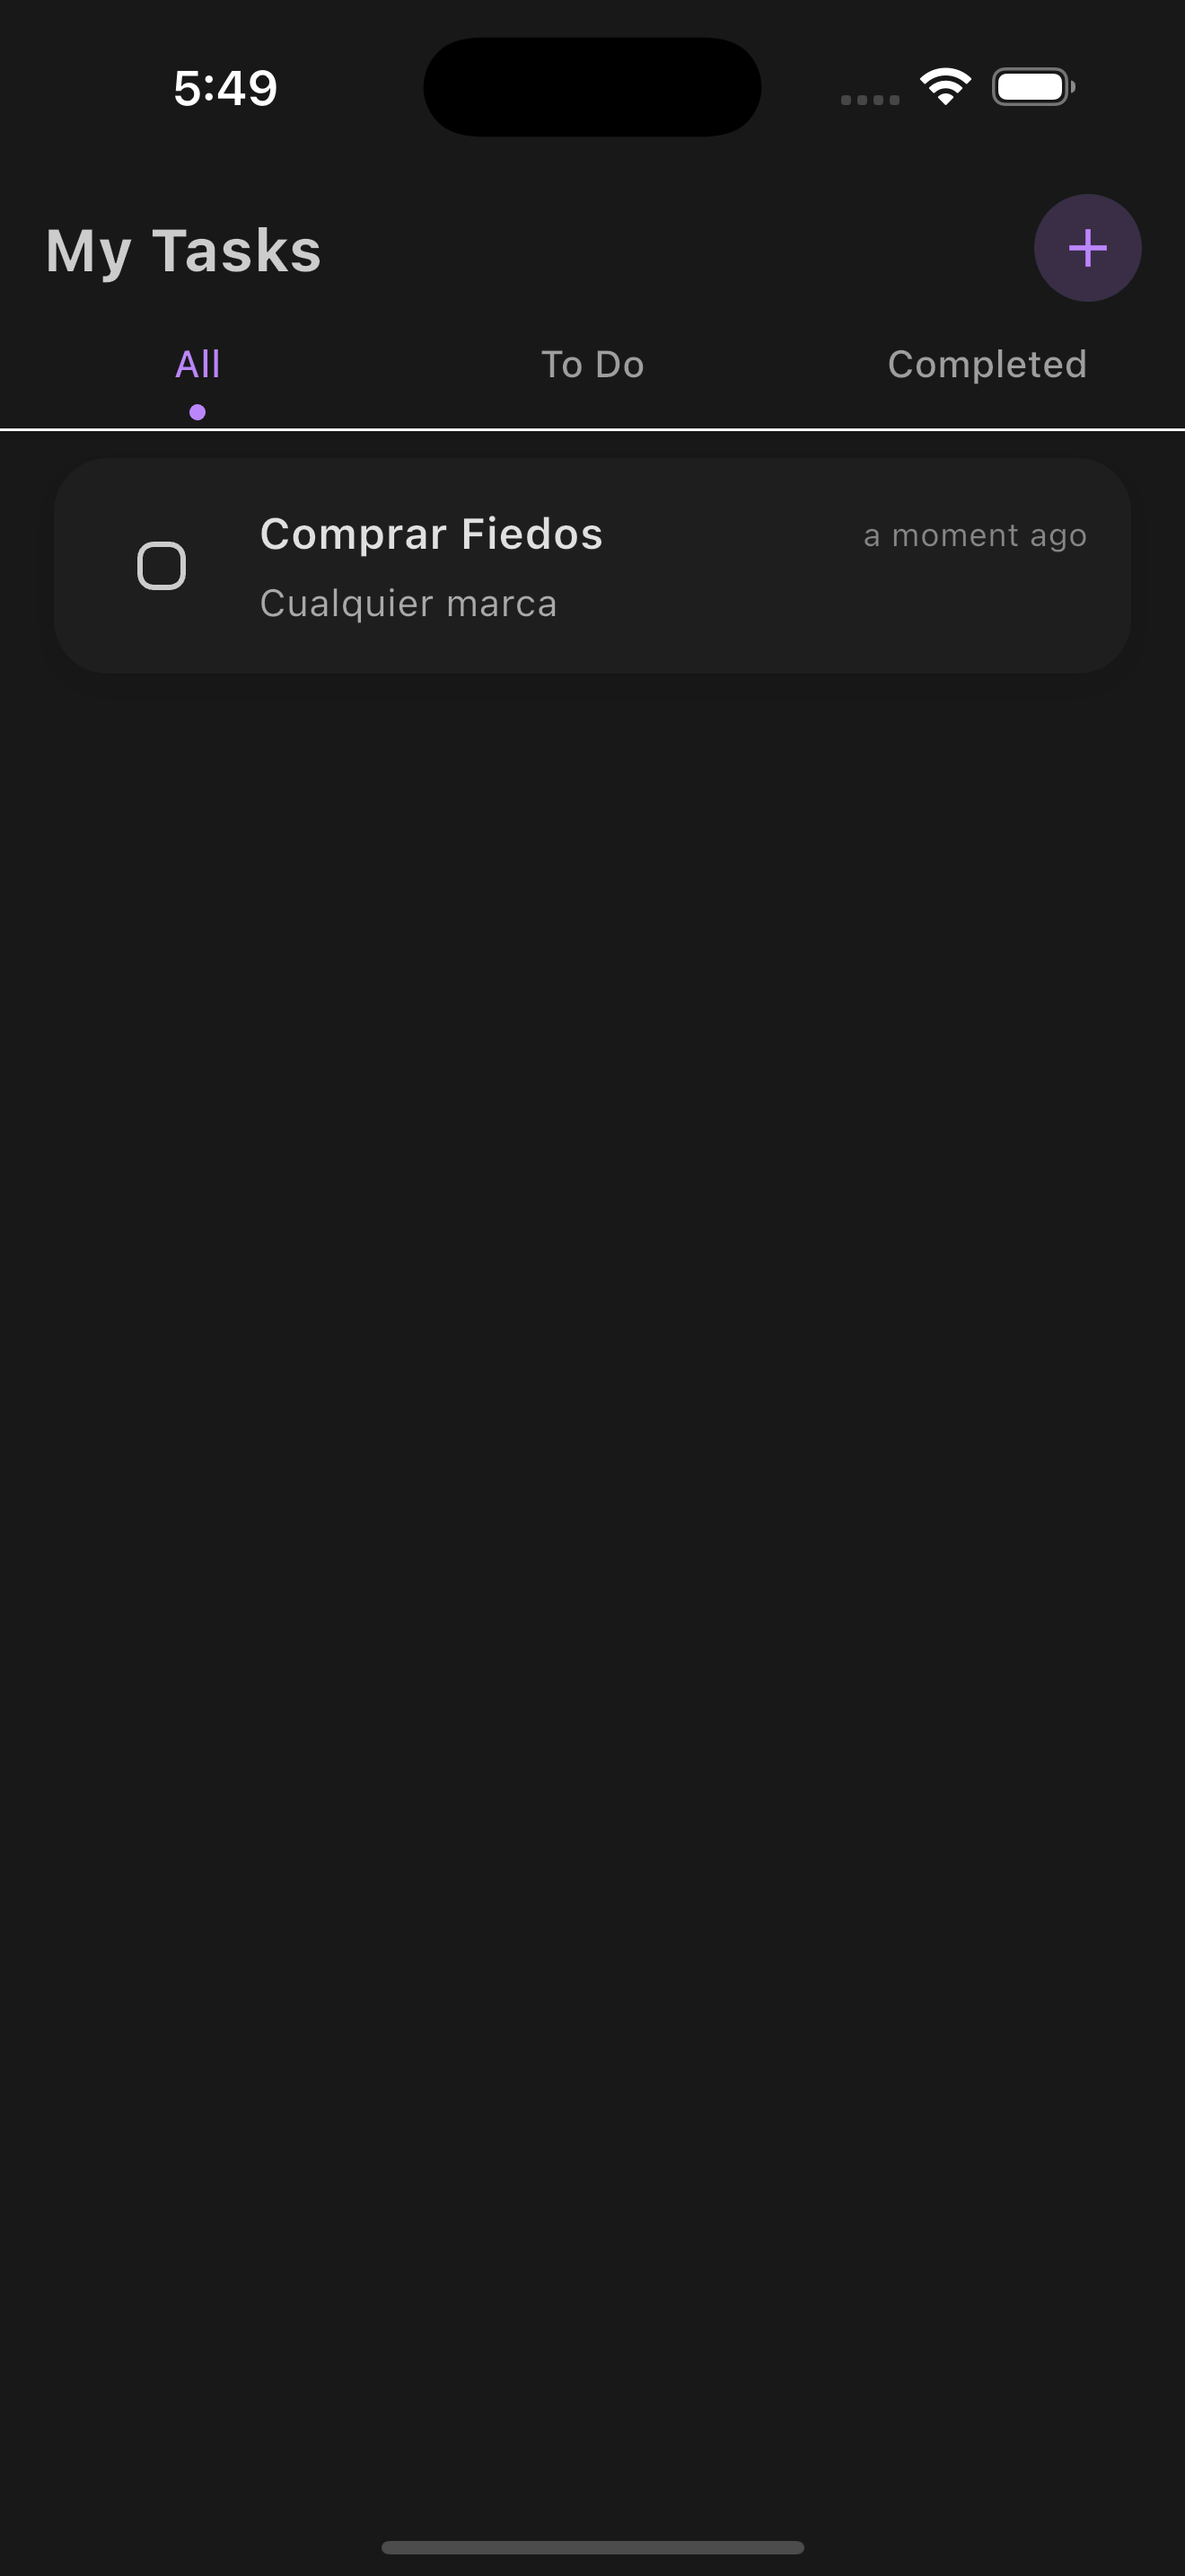
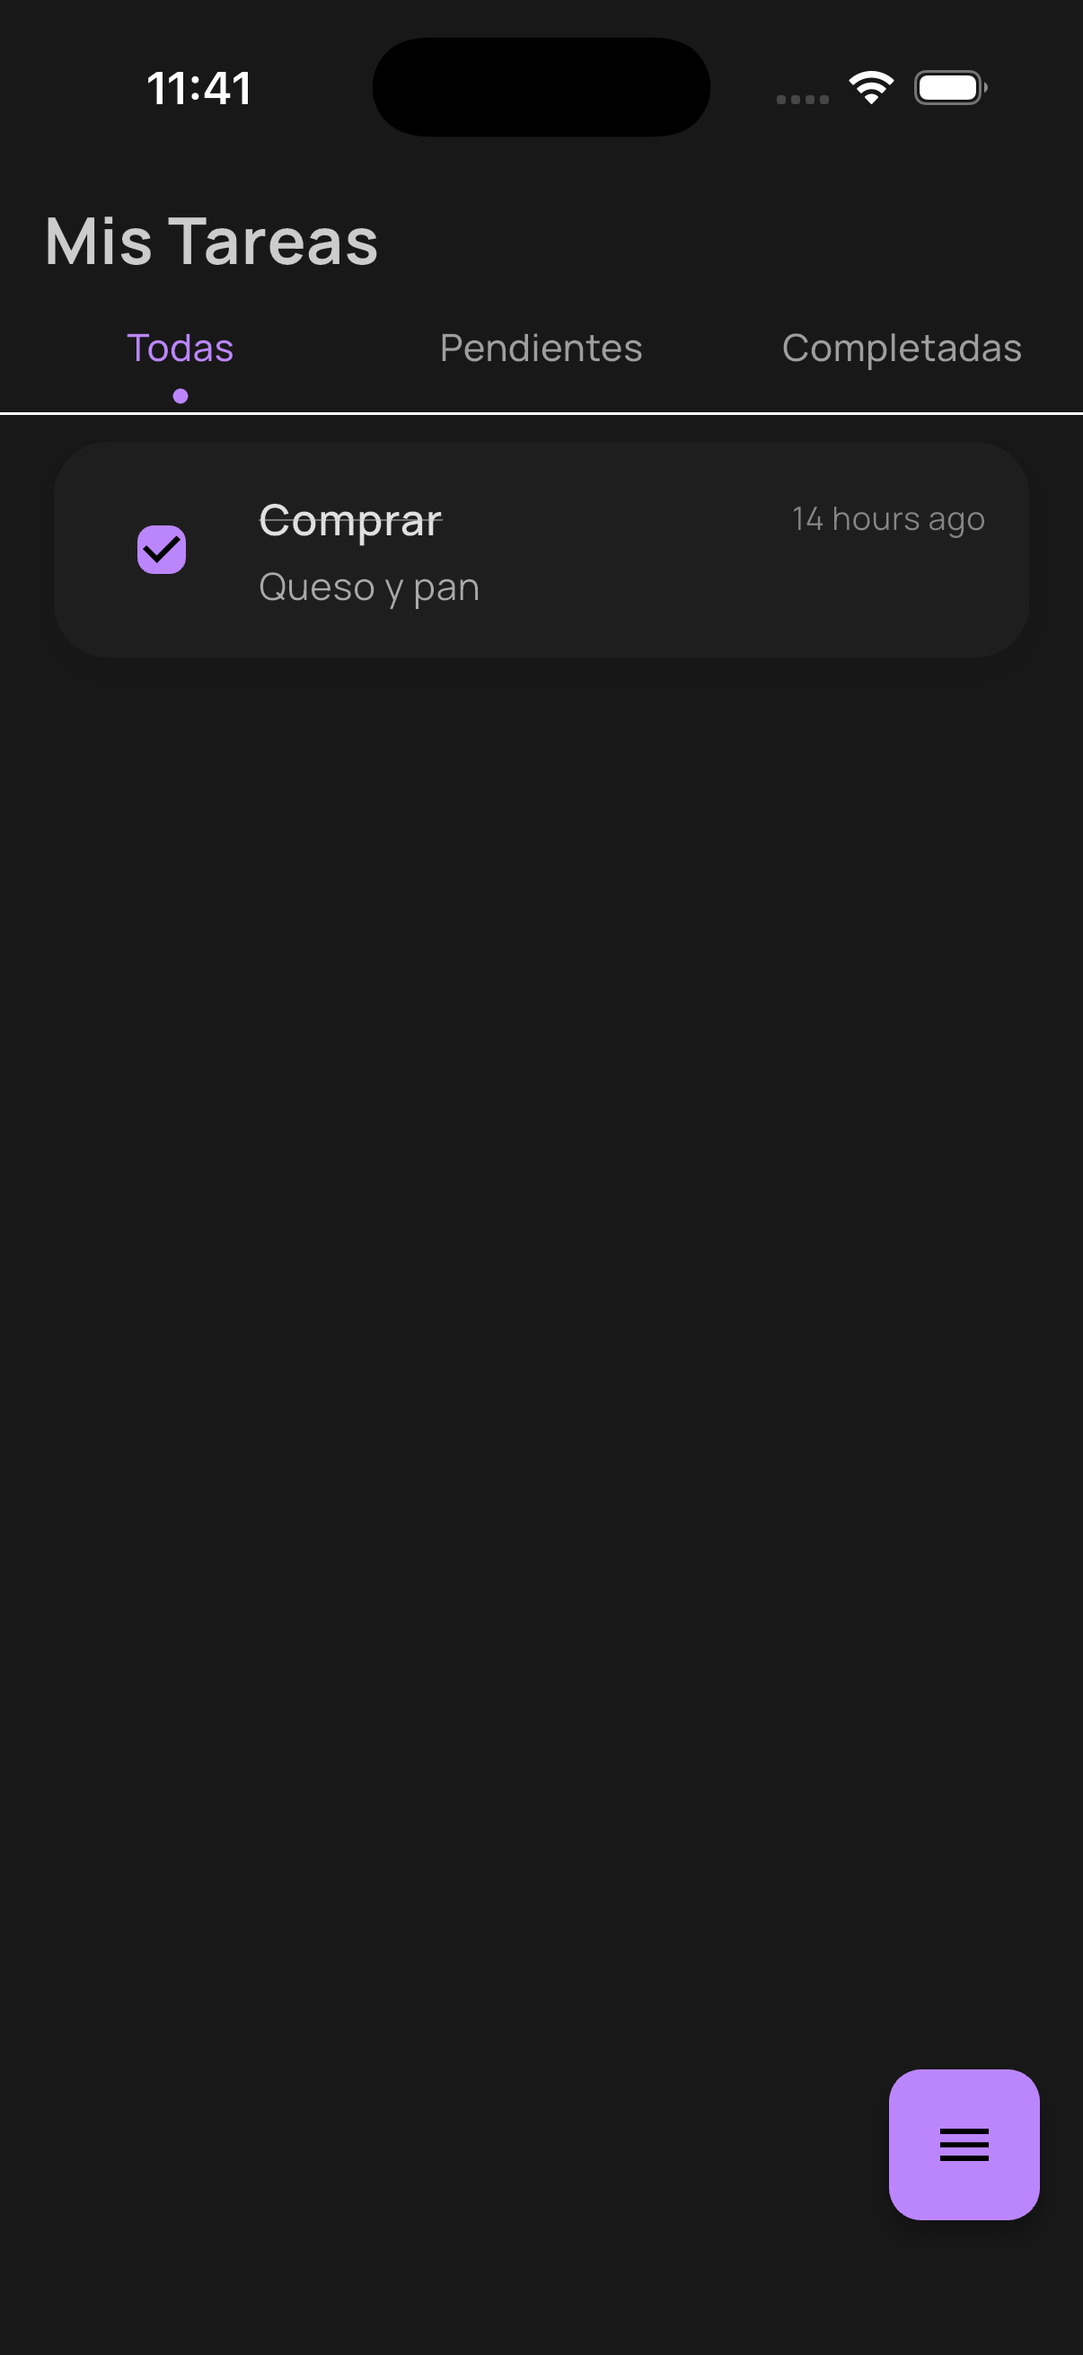
UPD se actualiza el readme

diff --git a/README.md b/README.md
@@ -1,6 +1,24 @@
 # App Task
 
-A new Flutter project with sembast as database.
+Una aplicación de gestión de tareas moderna y eficiente, diseñada para ayudar a los usuarios a organizar su día a día con una interfaz intuitiva y potentes capacidades locales.
+
+## Características Principales
+
+- **Gestión Completa de Tareas:** Crea, edita, organiza y elimina tareas fácilmente.
+- **Base de Datos Local con Sembast:** Almacenamiento persistente, rápido y seguro sin necesidad de conexión a internet.
+- **Reconocimiento de Texto (OCR):** Capacidad para detectar y procesar texto a partir de imágenes utilizando Google ML Kit.
+- **Interfaz Adaptable y Moderna:** Diseño fluido con soporte para **Modo Oscuro** y gestos de **Drag and Drop**.
+- **Internacionalización:** Soporte nativo para múltiples idiomas (Español e Inglés).
+- **Arquitectura Limpia (Clean Architecture):** Estructura de código escalable, testeable y fácil de mantener.
+
+## Tecnologías Utilizadas
+
+- **Flutter & Dart**
+- **Sembast** (NoSQL local database)
+- **Freezed & Json Serializable** (Generación de código)
+- **Flutter Meedu** (Géstor de estado)
+- **Google ML Kit** (Text Recognition)
+- **Clean Architecture** (Capa de Dominio, Datos y Presentación)
 
 # Getting Started
 
@@ -31,6 +49,7 @@ $ flutter test
   <img src="assets/images_for_git/home.png" alt="Demo del home" width="250"/>
   <img src="assets/images_for_git/add.png" alt="Demo del añadir" width="250"/>
   <img src="assets/images_for_git/home_all.png" alt="Demo del home_all" width="250"/>
+  <img src="assets/images_for_git/home_all_2.png" alt="Demo del home_all_2" width="250"/>
   <img src="assets/images_for_git/delete.png" alt="Demo del delete" width="250"/>
   <img src="assets/images_for_git/completed.png" alt="Demo del completed" width="250"/>
 
@@ -59,44 +78,77 @@ lib/                            # Código fuente principal de la aplicación Flu
 └── app/                        # Carpeta principal de la aplicación
     ├── core/                   # Configuraciones y utilidades centrales
     │   ├── adaptative_screen/  # Manejo de diseño adaptativo para diferentes tamaños de pantalla
-    │   ├── http/               # Configuración del cliente HTTP (Dio, interceptores, etc.)
-    │   ├── injects_providers/  # Inyecciones de dependencias generales
-    │   ├── instances/          # Instancias compartidas (como Dio o SharedPreferences)
-    │   └── utils/              # Funciones y helpers reutilizables
+    │   ├── injects_providers/  # Inyecciones de dependencias (db, storage, loggers, etc.)
+    │   ├── instances/          # Instancias compartidas (como SecureStorage o SharedPreferences)
+    │   ├── l10n/               # Configuración de localización e internacionalización
+    │   └── utils/              # Funciones y helpers reutilizables (incluyendo temas)
     │
     ├── data/                   # Fuente de datos externa o local
     │   ├── repositories_impl/  # Implementaciones concretas de los repositorios definidos en domain
-    │   └── source/providers/   # Proveedores de datos (API REST, base de datos, etc.)
+    │   └── source/providers/   # Proveedores de datos (API REST, Sembast, etc.)
     │
     ├── domain/                 # Lógica de negocio y definiciones del dominio
     │   ├── defs/               # Definiciones, constantes o tipos
-    │   ├── models/task/        # Modelos del dominio relacionados a tareas
+    │   ├── models/             # Modelos del dominio (task, auth, preferences, supabase)
     │   ├── repositories/       # Contratos (interfaces) de repositorios
-    │   └── uses_cases/         # Casos de uso que encapsulan acciones específicas del negocio
+    │   ├── responses/          # Modelos de respuesta y envoltorios de datos
+    │   └── uses_cases/         # Casos de uso (tasks, snackbar, timeago, user_preferences, etc.)
     │
     ├── presentation/           # Capa visual y lógica de UI
     │   ├── global/             # Recursos globales reutilizables
     │   │   ├── controllers/    # Controladores generales
     │   │   ├── extensions/     # Extensiones de Dart (DateTime, String, etc.)
-    │   │   ├── router/         # Navegación general (puede ser GoRouter, AutoRoute, etc.)
+    │   │   ├── l10n_gen/       # Generación de código para localización
+    │   │   ├── router/         # Navegación general y configuración de rutas
     │   │   ├── utils/          # Utilidades específicas de presentación
+    │   │   ├── validators/     # Validadores de formularios y lógica de validación
     │   │   └── widgets/        # Widgets reutilizables en múltiples módulos
     │   │
-    │   └── modules/            # Módulos de pantalla divididos por funcionalidad
-    │       ├── new_task/       # UI y lógica para crear una nueva tarea
-    │       ├── splash/         # Pantalla de carga inicial (splash screen)
-    │       └── task/           # Módulo principal para el manejo de tareas
-    │
-    ├── router/                 # Configuración avanzada del enrutamiento
-    │   ├── app_routes/         # Rutas por módulo o características
-    │   ├── transitions/        # Transiciones animadas personalizadas entre pantallas
-    │   └── router_provider.dart # Provider principal para el sistema de rutas
+    │   ├── modules/            # Módulos de pantalla divididos por funcionalidad
+    │   │   ├── auth/           # UI y lógica para autenticación
+    │   │   ├── new_task/       # UI y lógica para crear una nueva tarea
+    │   │   ├── splash/         # Pantalla de carga inicial (splash screen)
+    │   │   ├── task/           # Módulo principal para el manejo de tareas
+    │   │   └── task_writing/   # UI y lógica para escritura y reconocimiento de tareas
+    │   │
+    │   └── router/             # Configuración avanzada del enrutamiento
+    │       ├── app_routes/     # Definición de rutas por módulos
+    │       └── transitions/    # Transiciones animadas personalizadas
     │
     ├── my_app.dart             # Widget raíz de la aplicación (MaterialApp, temas, etc.)
     ├── inject_repository.dart  # Inyección de dependencias para los repositorios
     └── main.dart               # Punto de entrada principal de la aplicación
 test/                           # Código fuente para las pruebas unitarias
 └── app/                        # Pruebas relacionadas con la lógica de la aplicación
-    ├── uses_cases/             # Pruebas para los casos de uso (use cases)
-    │   ├── tasks/              # Pruebas específicas de los casos de uso relacionados con tareas
+    └── uses_cases/             # Pruebas para los casos de uso (use cases)
+        ├── google_text_recognition/ # Pruebas de reconocimiento de texto
+        ├── snackbar/           # Pruebas de notificaciones (snackbar)
+        ├── tasks/              # Pruebas específicas de tareas
+        ├── timeago/            # Pruebas de formato de tiempo
+        └── user_preferences/   # Pruebas de preferencias de usuario
 ```
+
+## Descripción de las Capas
+
+### 🏛 Core
+Esta capa contiene la base técnica de la aplicación. Aquí se gestionan las configuraciones globales, utilidades transversales (como temas y adaptabilidad de pantalla) y la inicialización de servicios externos (bases de datos locales, almacenamiento seguro, etc.).
+
+### 💾 Data
+Responsable de la persistencia y la comunicación externa.
+- **Providers:** Implementan el acceso directo a fuentes de datos (Sembast para base de datos local, APIs).
+- **Repositories Impl:** Conectan la capa de datos con la de dominio, implementando las interfaces definidas por el negocio.
+
+### 🧠 Domain
+El corazón de la aplicación, independiente de cualquier framework o librería externa.
+- **Models:** Entidades puras de datos.
+- **Repositories:** Contratos que definen qué datos necesita el negocio.
+- **Use Cases:** Encapsulan la lógica de negocio pura (ej. "crear una tarea", "clasificar tareas").
+
+### 🎨 Presentation
+Gestiona todo lo relacionado con la interfaz de usuario y la experiencia del usuario.
+- **Modules:** Cada funcionalidad tiene su propio módulo con su vista y su lógica de estado (controladores).
+- **Global:** Widgets y utilidades que se comparten en toda la aplicación (botones personalizados, extensiones, validadores).
+- **Router:** Manejo centralizado de la navegación y las transiciones entre pantallas.
+
+---
+
